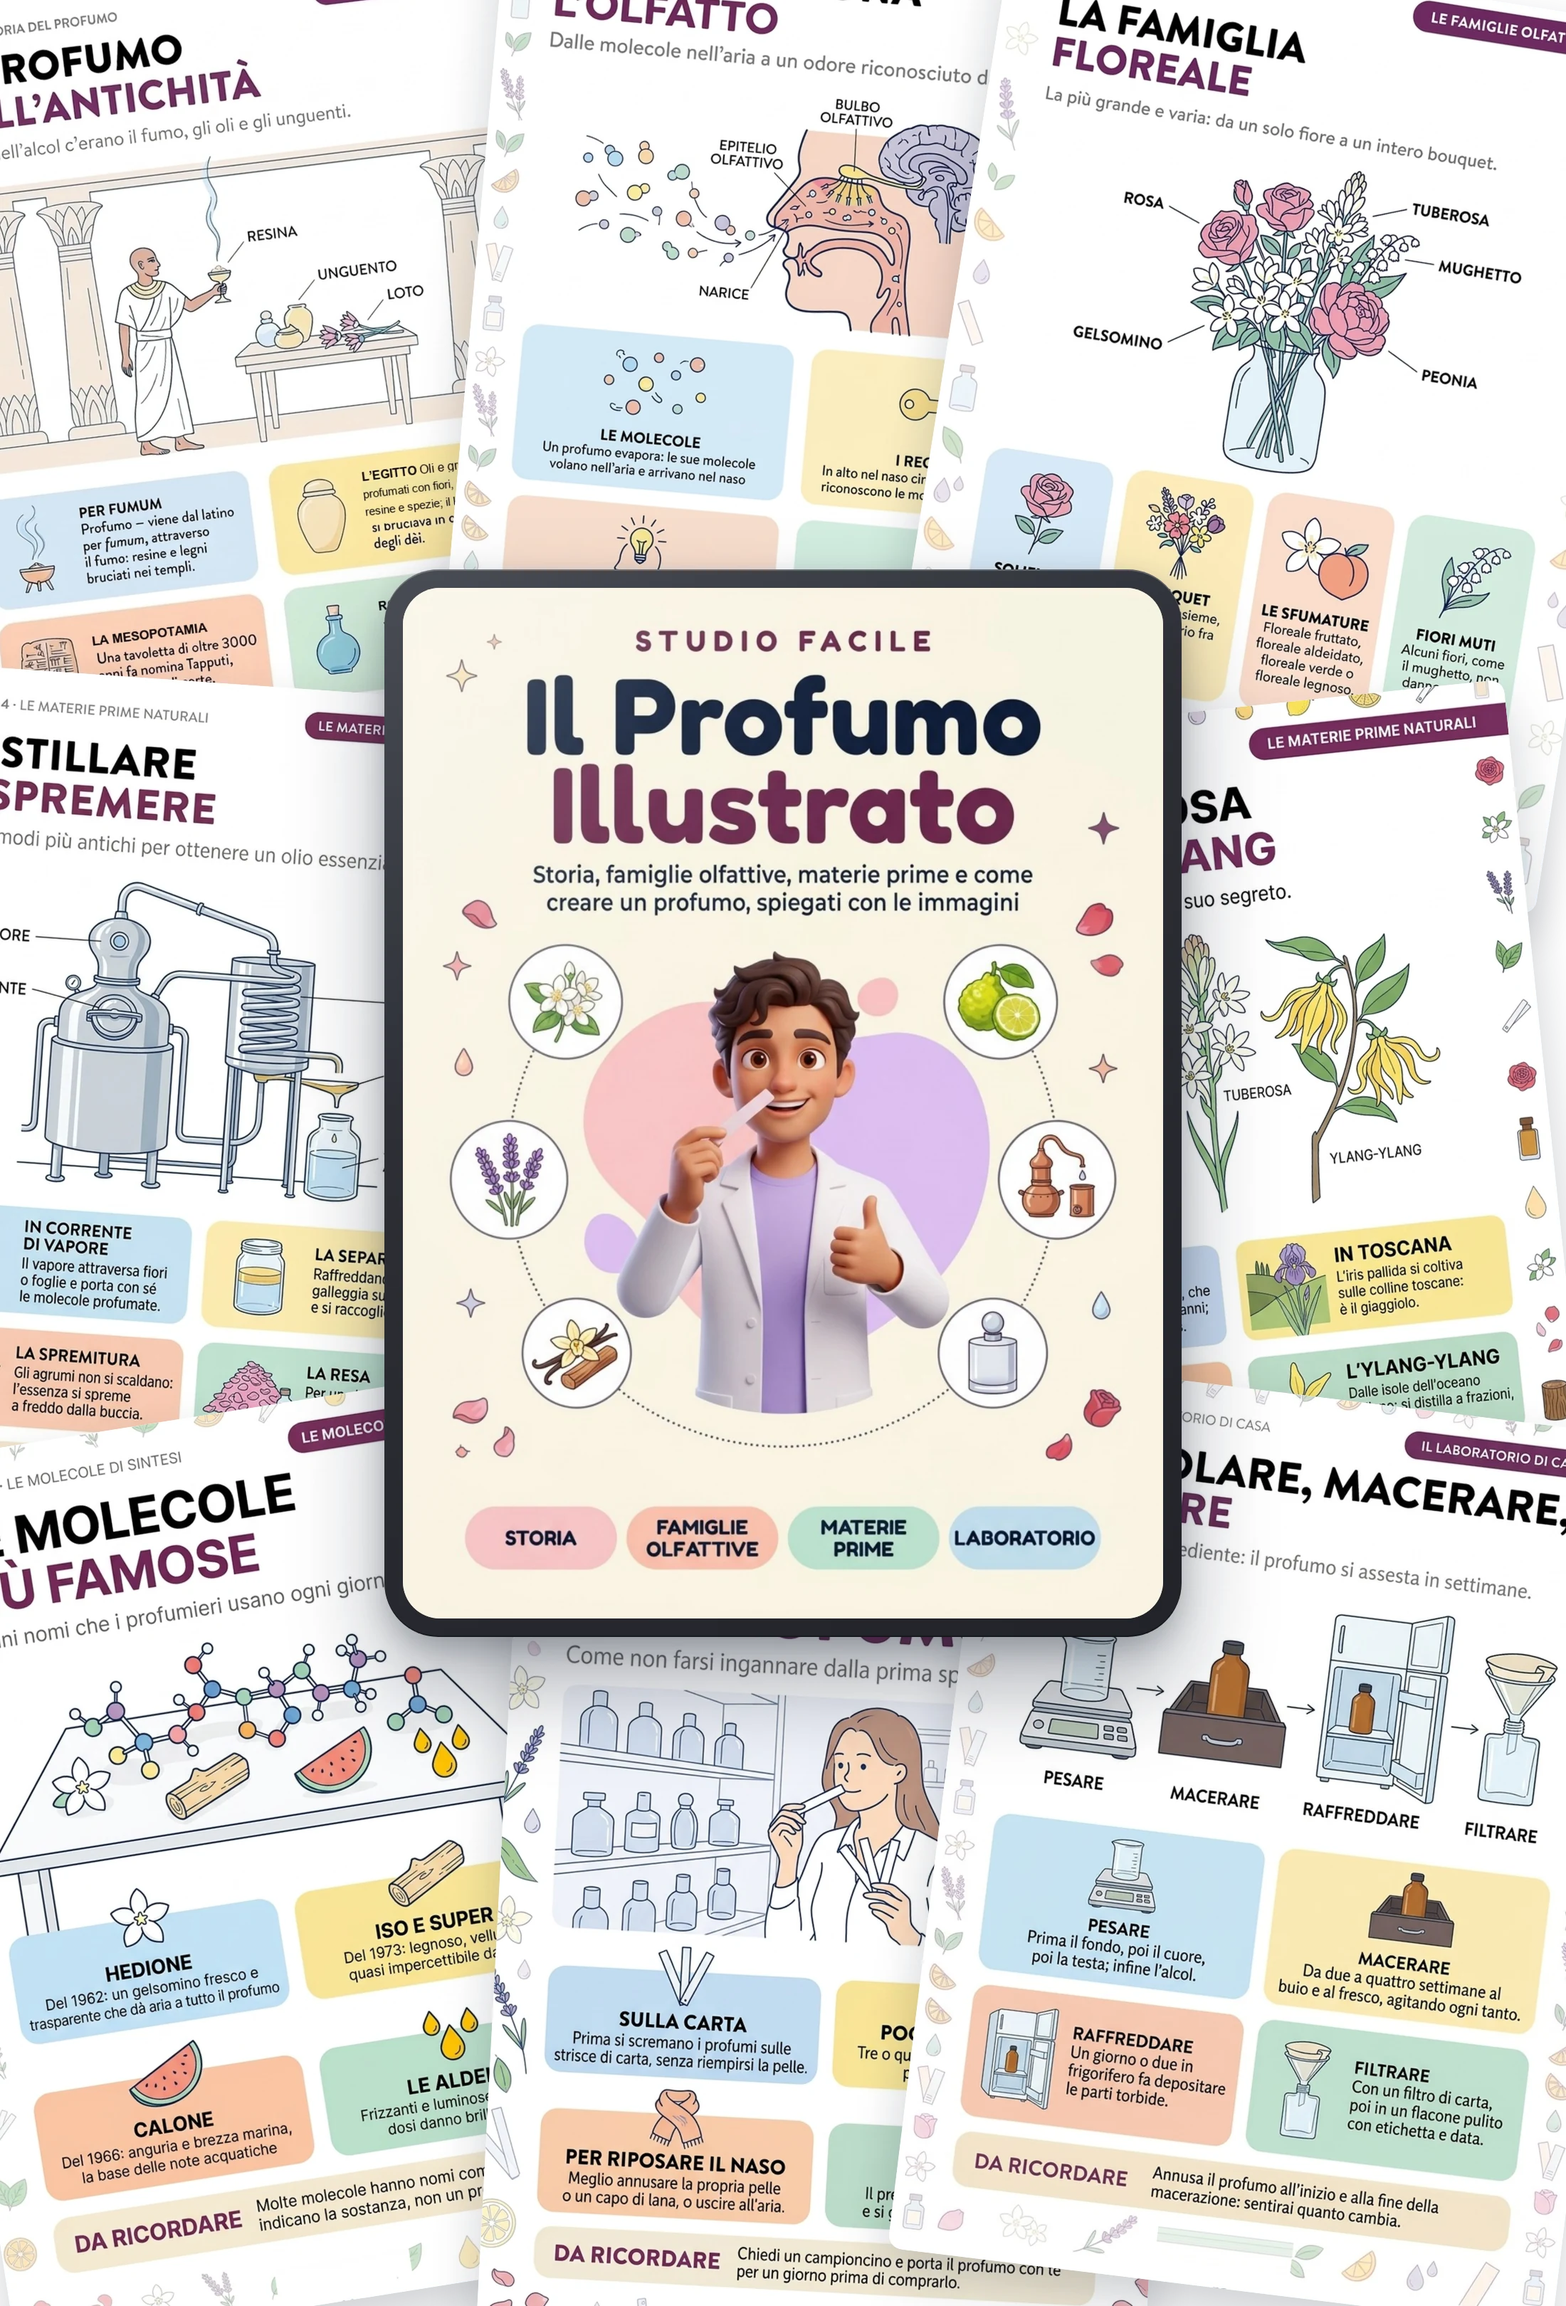
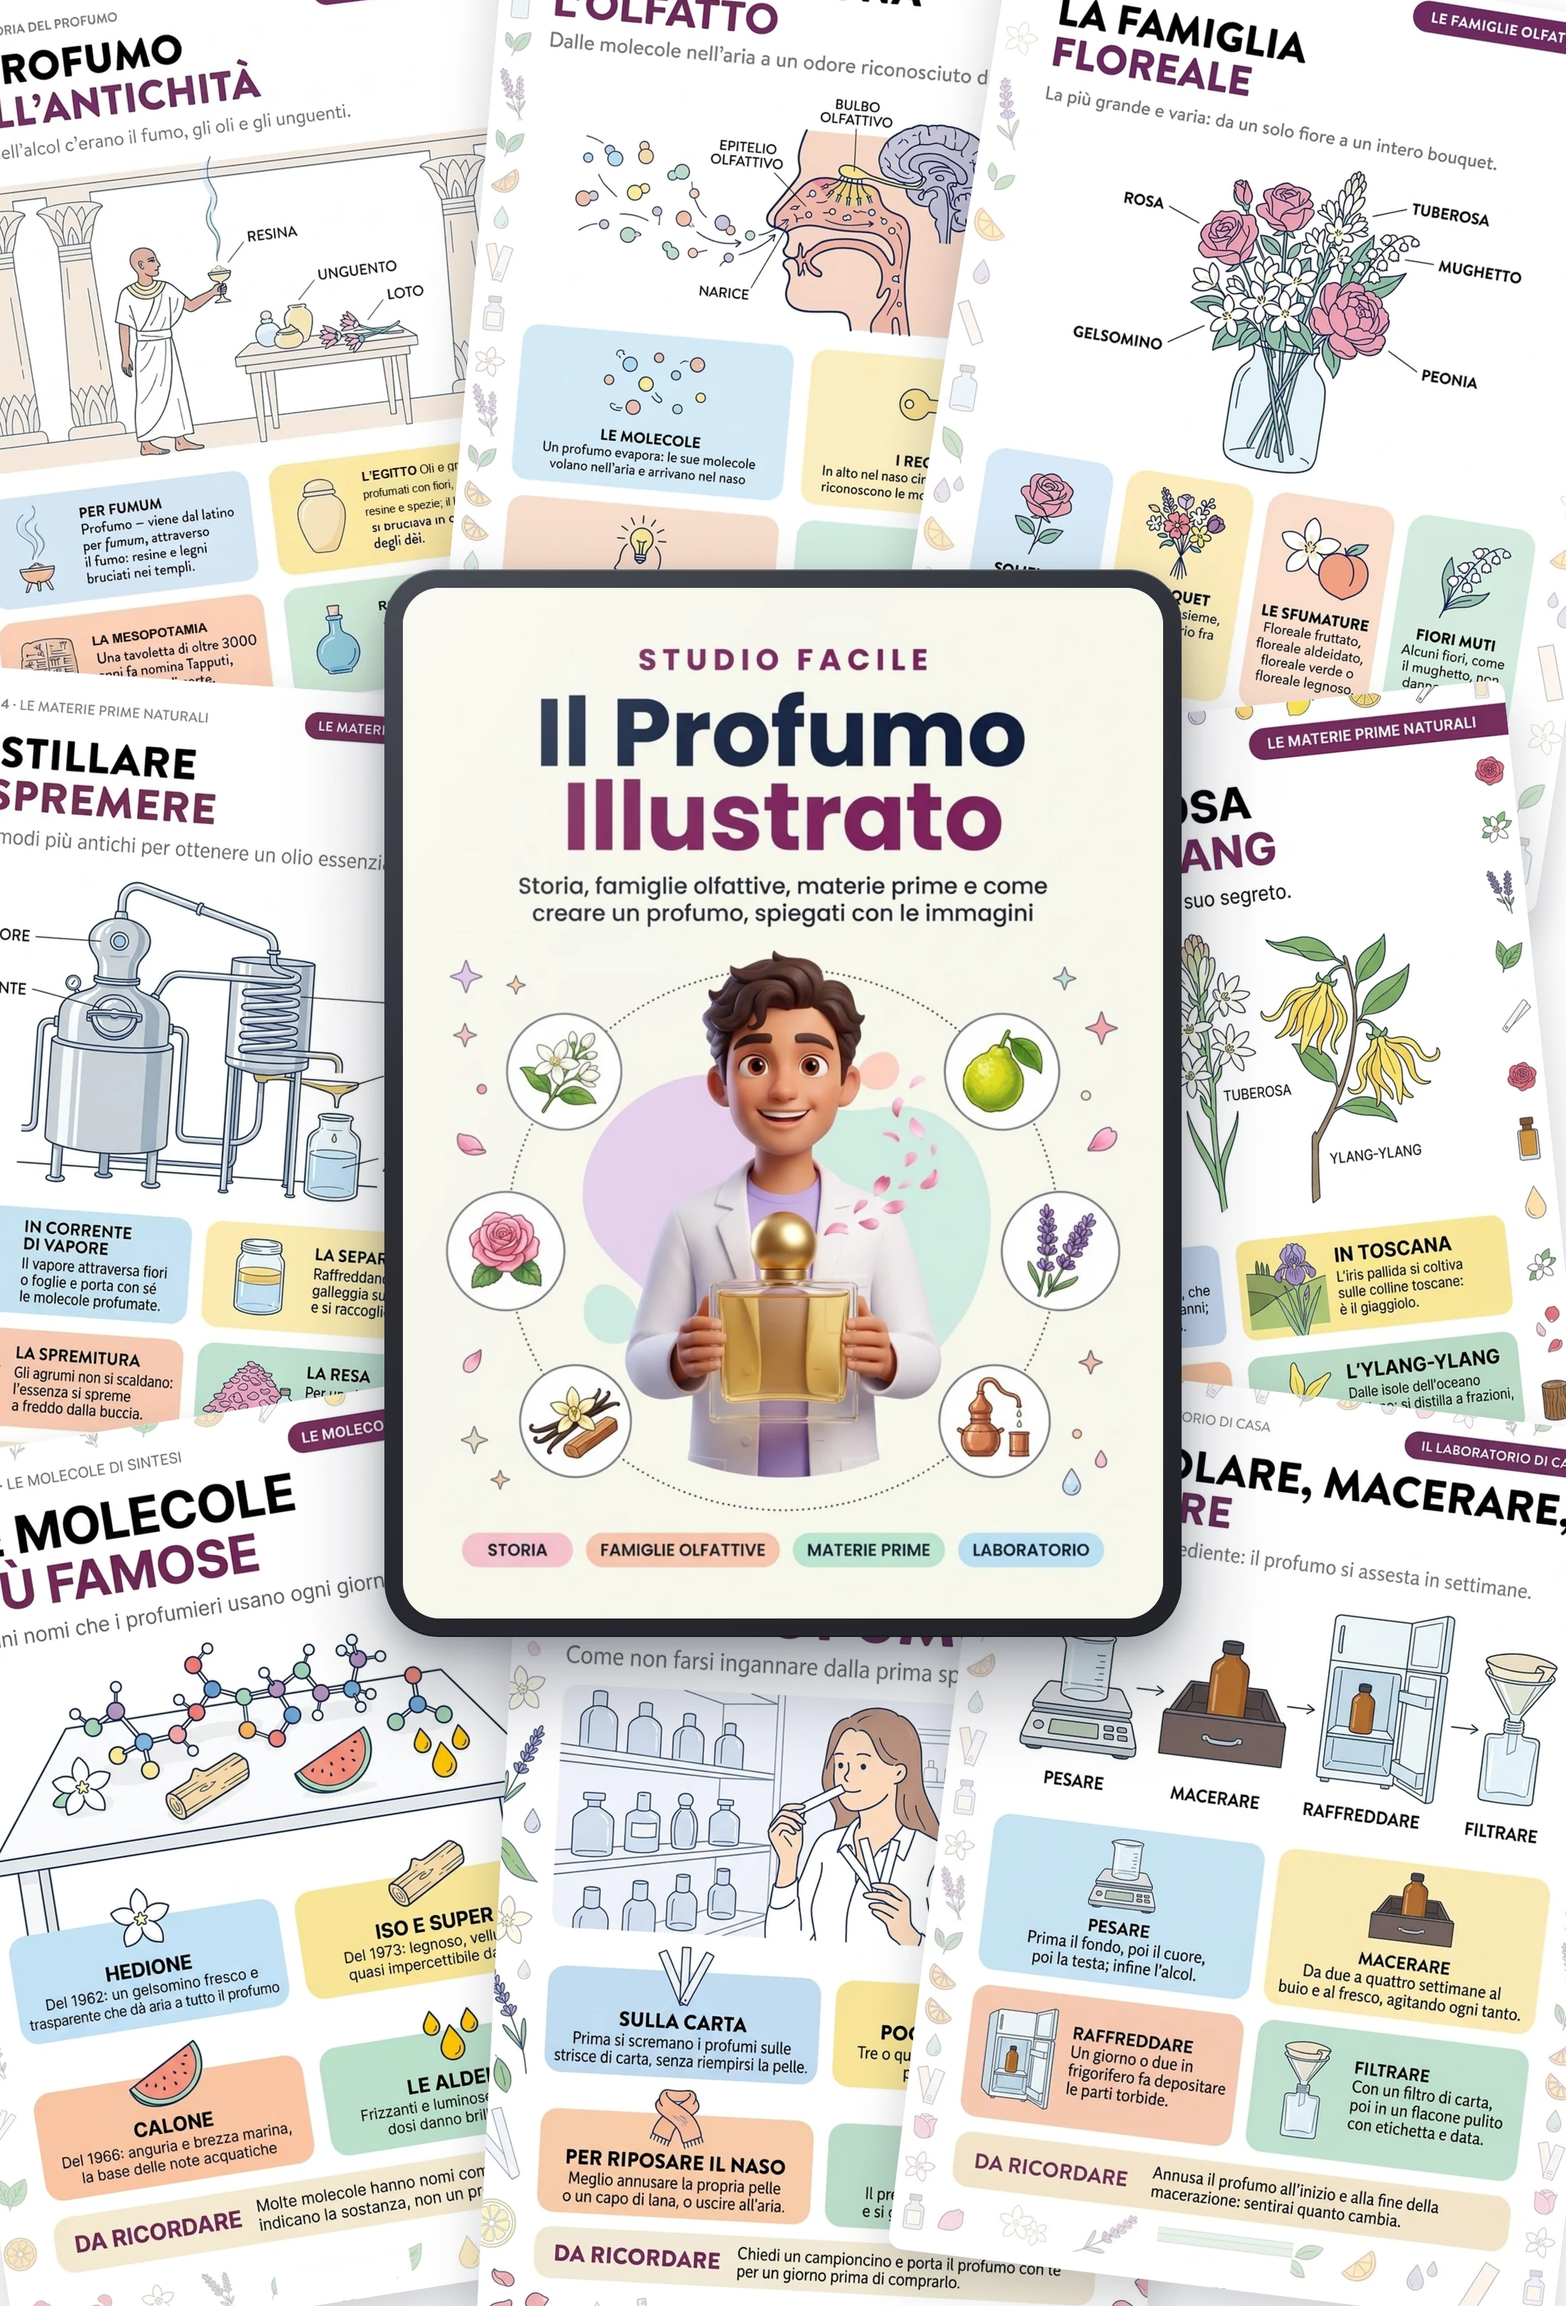
Landing profumi IT: portada nueva con frasco generico grande

Changed region(s): [[0.2782, 0.2494, 0.7109, 0.6858]]

diff --git a/it/profumi.html b/it/profumi.html
@@ -2153,7 +2153,7 @@
   <section class="hero">
     <div class="hero-content">
       <div class="hero-mockup">
-        <img src="https://czocbnyoenjbpxmcqobn.supabase.co/storage/v1/object/public/algoritmia-img/studiofacile/mockups/profumi-it/hero.webp?v=cf912080" alt="Il Profumo Illustrato, con Il Quaderno del Profumo e Il Lessico del Profumo in regalo"
+        <img src="https://czocbnyoenjbpxmcqobn.supabase.co/storage/v1/object/public/algoritmia-img/studiofacile/mockups/profumi-it/hero.webp?v=3aa22bc3" alt="Il Profumo Illustrato, con Il Quaderno del Profumo e Il Lessico del Profumo in regalo"
              width="1200" height="886" loading="eager" fetchpriority="high" decoding="async">
       </div>
       <h1>Il Modo Più Facile per Capire il Profumo <mark>Con Ogni Argomento Spiegato da un Disegno!</mark></h1>
@@ -2421,7 +2421,7 @@
     <div class="container">
       <h2 class="text-center">Ecco Cosa Riceverai Acquistando Il Profumo Illustrato:</h2>
       <div style="margin: 20px auto 28px;">
-        <img src="https://czocbnyoenjbpxmcqobn.supabase.co/storage/v1/object/public/algoritmia-img/studiofacile/mockups/profumi-it/combo.webp?v=7ae53a14" alt="Il Profumo Illustrato: mockup con pagine di esempio" width="1100" height="1620" loading="lazy" decoding="async" style="max-width: 480px; width: 100%; display: block; margin: 0 auto;">
+        <img src="https://czocbnyoenjbpxmcqobn.supabase.co/storage/v1/object/public/algoritmia-img/studiofacile/mockups/profumi-it/combo.webp?v=3e8ef3b3" alt="Il Profumo Illustrato: mockup con pagine di esempio" width="1100" height="1620" loading="lazy" decoding="async" style="max-width: 480px; width: 100%; display: block; margin: 0 auto;">
       </div>
       <div class="topics-grid">
         <div class="topic-item">
@@ -2531,7 +2531,7 @@
 
       <!-- DECISION BOX -->
       <div class="decision-box" id="offerta">
-        <img src="https://czocbnyoenjbpxmcqobn.supabase.co/storage/v1/object/public/algoritmia-img/studiofacile/mockups/profumi-it/hero.webp?v=cf912080" alt="Il Profumo Illustrato con i due volumi in regalo" class="db-mockup" width="1200" height="886" loading="lazy" decoding="async">
+        <img src="https://czocbnyoenjbpxmcqobn.supabase.co/storage/v1/object/public/algoritmia-img/studiofacile/mockups/profumi-it/hero.webp?v=3aa22bc3" alt="Il Profumo Illustrato con i due volumi in regalo" class="db-mockup" width="1200" height="886" loading="lazy" decoding="async">
         <h3 class="db-title">Il Profumo Illustrato + 2 Volumi in Regalo</h3>
         <ul class="db-checklist">
           <li><span class="db-check"><svg viewBox="0 0 24 24"><polyline points="20 6 9 17 4 12"/></svg></span>Il Profumo Illustrato: 58 pagine illustrate<span class="db-price-val">58,20€</span></li>
